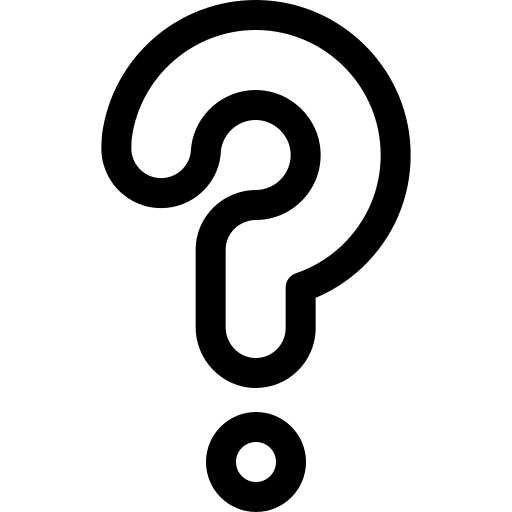
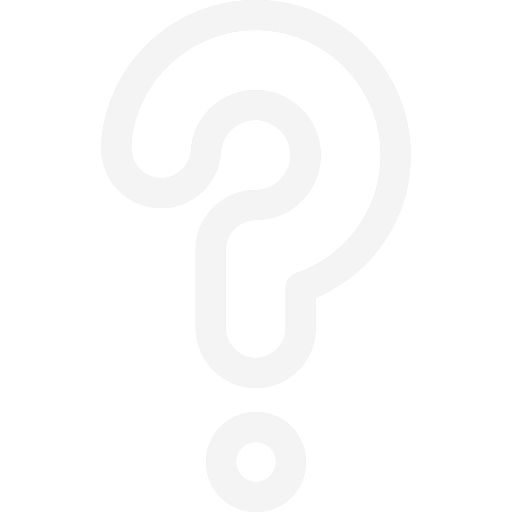
Plus de bordure (ecran pixel perfect) + changement du comportement des Infos

Changed region(s): [[0.1875, 0.0, 0.8125, 1.0]]

diff --git a/CSS/style.css b/CSS/style.css
@@ -30,10 +30,9 @@ header {
 
 #MapContainer {
     position: relative;
-    width: 99vw;
+    width: 100vw;
     height: 80vh;
     overflow: hidden;
-    border: 2px solid black;
 }
 
 #MyPosition {
@@ -70,7 +69,7 @@ header {
 
 }
 
-#Information {
+#QuestionMark {
     cursor: pointer;
     position: absolute;
     z-index: 2;
@@ -80,12 +79,7 @@ header {
     width: 20px;
     margin: 10px;
     padding: 3px;
-    transition: 300ms;
-}
-
-#Information:hover {
-    background-color: var(--invertBgColor);
-    filter: invert(100%);
+    background-color: var(--bgColor);
 }
 
 #InformationText {

diff --git a/index.html b/index.html
@@ -27,7 +27,7 @@
         <div id="MapContainer">  
             <div id="Map"></div>
                     
-            <img id="Information" src="images/questionmark.png" onclick="handleShowInformation()" alt="information">
+            <img id="QuestionMark" src="images/questionmark.png" onclick="handleShowInformation()" alt="information">
 
             <div id="InformationText">
                 <img id="CloseInfoText" src="images/cross.png" onclick="handleCloseInformation()" alt="close">
